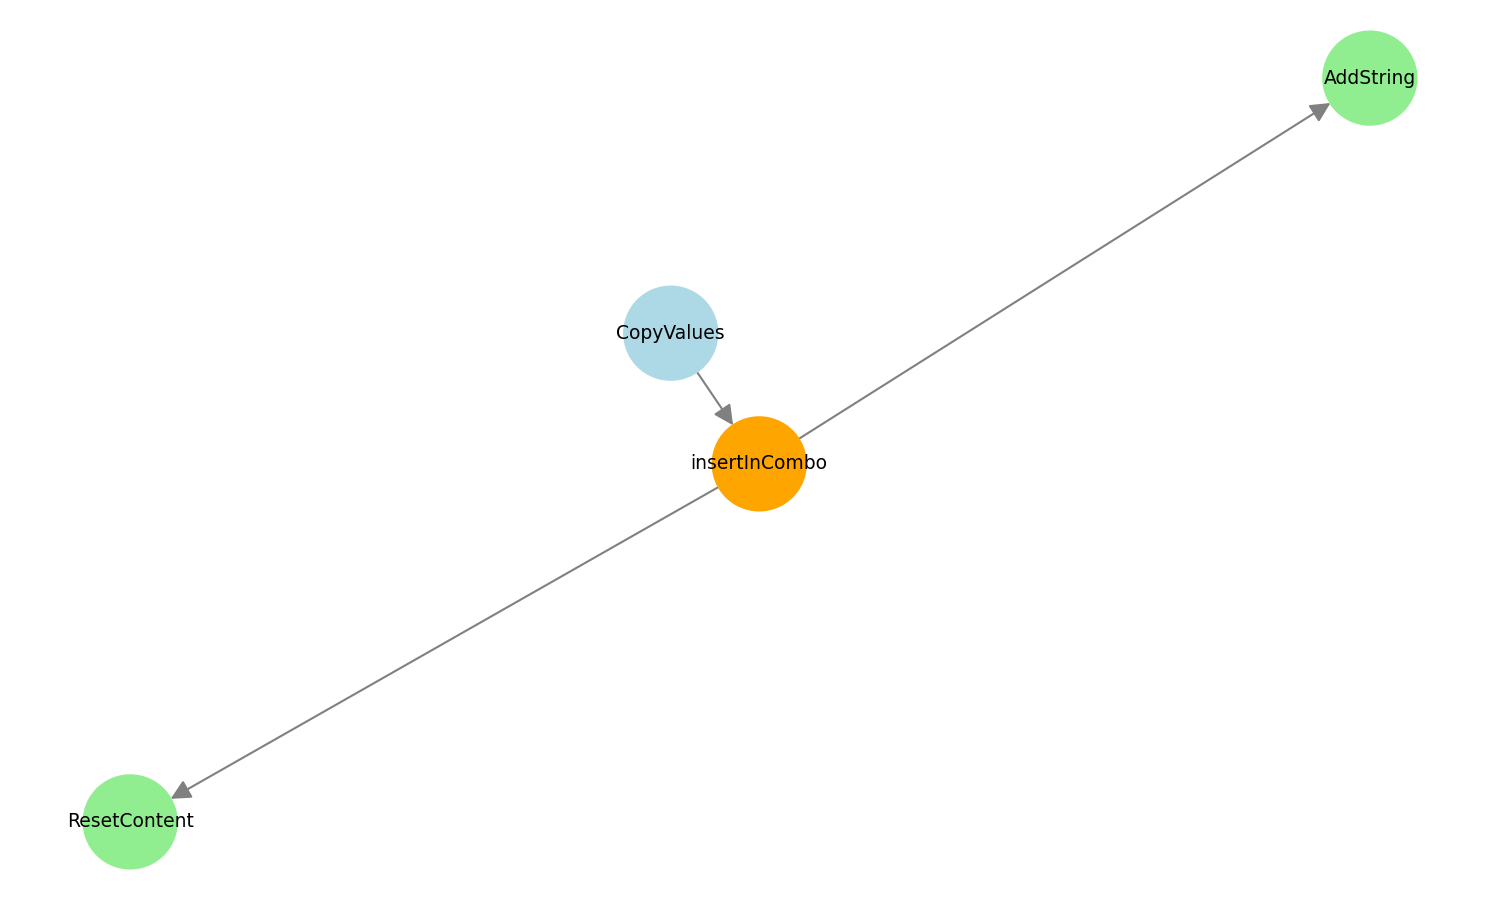
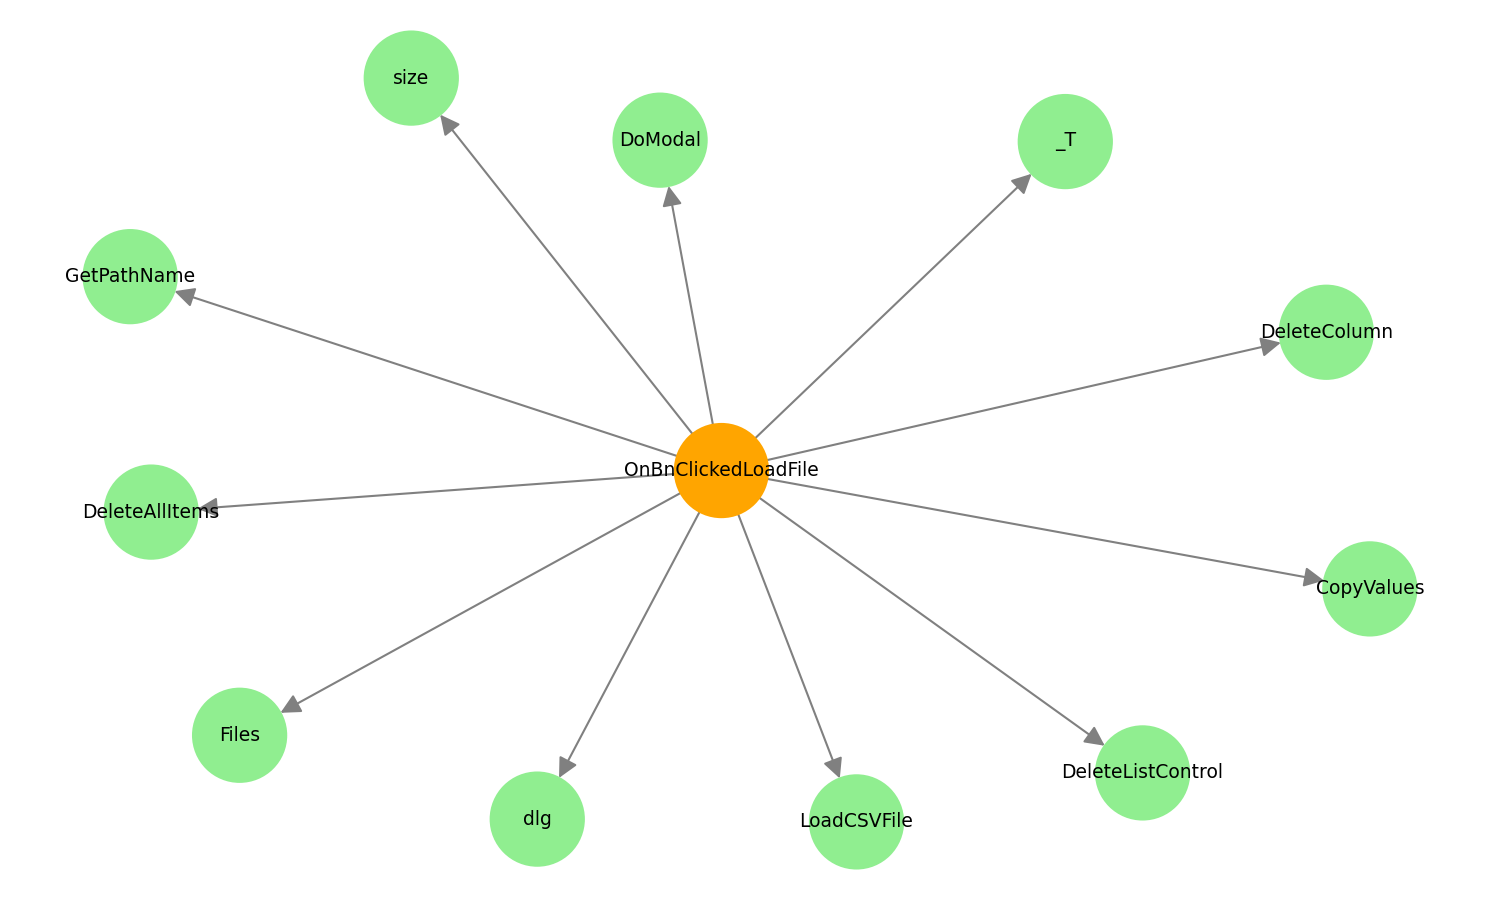
Tested on void CDemoProjectDlg::OnBnClickedLoadFile(). Success.

diff --git a/src/call_graph.py b/src/call_graph.py
@@ -3,7 +3,7 @@ import networkx as nx
 import matplotlib.pyplot as plt
 
 # Load the C++ file
-with open("D:\\SEProject\\Data-Analyzer\\FirstDialog.cpp", "r") as f:
+with open("D:\\SEProject\\Data-Analyzer\\DemoProjectDlg.cpp", "r") as f: # Change the path to your file [change]
     code = f.read()
 
 #**Step 2: Extract function bodies**
@@ -74,7 +74,7 @@ def extract_calls(body):
     return list(set(calls))
 
 # Test on insertInCombo
-target = "insertInCombo"
+target = "OnBnClickedLoadFile" # Need to change the target manually based on the function we want to analyze [change]
 body = functions[target]
 calls = extract_calls(body)
 print(f"\n{target} calls: {calls}")
@@ -140,7 +140,7 @@ def draw_call_graph(target, outgoing_calls, incoming_calls):
             node_size=2000,
             with_labels=True,
             font_size=9,
-            arrows=True,
+            arrowstyle='-|>',
             arrowsize=20,
             edge_color='gray')
     
